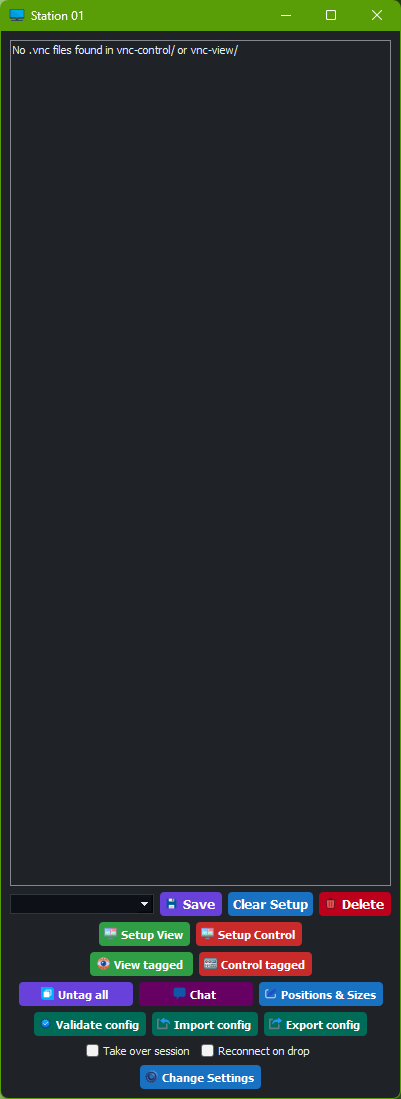
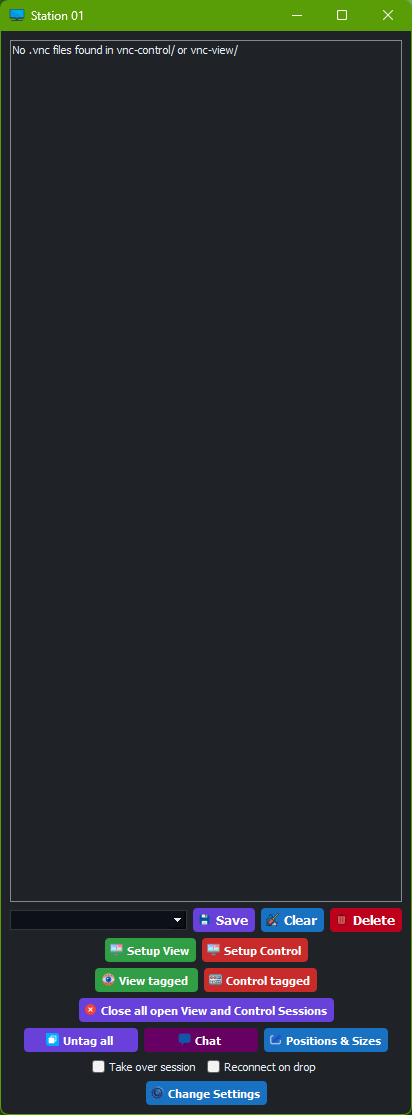
Updated admin guide and renewed some pictures.

diff --git a/docs/admin-guide.md b/docs/admin-guide.md
@@ -37,7 +37,28 @@ Each station should include:
 - optional `vnc-positions/` presets
 - optional `vnc-setups/` presets
 
-## 3. Verify Runtime Folder Structure [Admin]
+## 3. Critical VNC Password Setup [Admin]
+
+This is mandatory for correct operation.
+
+- Every `.vnc` file must have its password saved in the file.
+- Save/update `.vnc` passwords using `tvnviewer.exe` before deployment.
+- On each VNC Server target, configure separate access credentials:
+  - one password for `View`
+  - one password for `Control`
+
+Do:
+
+- validate that `vnc-view/*.vnc` files connect with View credentials
+- validate that `vnc-control/*.vnc` files connect with Control credentials
+- re-save `.vnc` files after any server-side password change
+
+Do not:
+
+- deploy `.vnc` files without saved passwords
+- use one shared password for both View and Control modes
+
+## 4. Verify Runtime Folder Structure [Admin]
 
 Expected operational directories:
 
@@ -49,7 +70,7 @@ Expected operational directories:
 
 Use `Validate config` in app to detect missing/malformed artifacts after deployment.
 
-## 4. Initial Station Configuration [Admin]
+## 5. Initial Station Configuration [Admin]
 
 Prerequisites: App launches and settings window opens.
 
@@ -65,7 +86,7 @@ Prerequisites: App launches and settings window opens.
 
 Figure 1: Settings window for station identity, UDP, HA, and maintenance tools.
 
-## 5. UDP Network Compatibility [Admin]
+## 6. UDP Network Compatibility [Admin]
 
 All stations must:
 
@@ -88,7 +109,7 @@ New-NetFirewallRule -DisplayName "VNC Station UDP 50000" -Direction Inbound -Pro
 
 If you use another port, change `50000` accordingly.
 
-## 6. Validation And Configuration Maintenance [Admin]
+## 7. Validation And Configuration Maintenance [Admin]
 
 In `Change Settings`:
 
@@ -101,7 +122,7 @@ In `Change Settings`:
 
 Figure 2: Validation feedback examples.
 
-## 7. Config Replication Between Stations [Admin]
+## 8. Config Replication Between Stations [Admin]
 
 Prerequisites: One reference station is fully verified.
 
@@ -114,12 +135,13 @@ Prerequisites: One reference station is fully verified.
    - HA credentials (if different)
 5. Run `Validate config` after import.
 
-## 8. Operational Guardrails [Admin]
+## 9. Operational Guardrails [Admin]
 
 Do:
 
 - keep all stations on same app version during a shift
 - keep UDP port consistent across stations
+- keep View and Control passwords separated on VNC Server side
 - require validation after manual file edits
 - keep regular config exports as backups
 
@@ -128,16 +150,17 @@ Do not:
 - enable `Allow multiple instances on the same station` without explicit need
 - keep `Take over session` enabled as default operating state
 
-## 9. Troubleshooting [Admin]
+## 10. Troubleshooting [Admin]
 
 | Symptom | Likely cause | Quick fix |
 |---|---|---|
 | Stations do not discover each other | UDP port mismatch or firewall block | Verify same port, open firewall, run UDP test both directions |
 | App says another instance is running | Single-instance protection active | Close existing instance or enable multi-instance setting intentionally |
 | Sessions fail to launch | Missing `tvnviewer.exe` or `.vnc` files | Verify file layout and run `Validate config` |
+| VNC auth fails when opening session | Password missing/wrong in `.vnc` or wrong server password mapping | Re-save `.vnc` with `tvnviewer.exe` and verify separate View/Control passwords on server |
 | Indicators/chat inconsistent | HA/network/config mismatch | Verify HA settings, version alignment, and logs |
 
-## 10. Suggested Acceptance Test After Deployment [Admin]
+## 11. Suggested Acceptance Test After Deployment [Admin]
 
 1. Launch app and confirm connection rows load.
 2. Open one View session.
@@ -151,4 +174,3 @@ Do not:
 ![Open One View](manual-assets/images/operational-flows-01-open-one-view.png)
 ![Open One Control](manual-assets/images/operational-flows-02-open-one-control.png)
 ![Takeover Notice](manual-assets/images/operational-flows-06-takeover-chat-notice.png)
-
